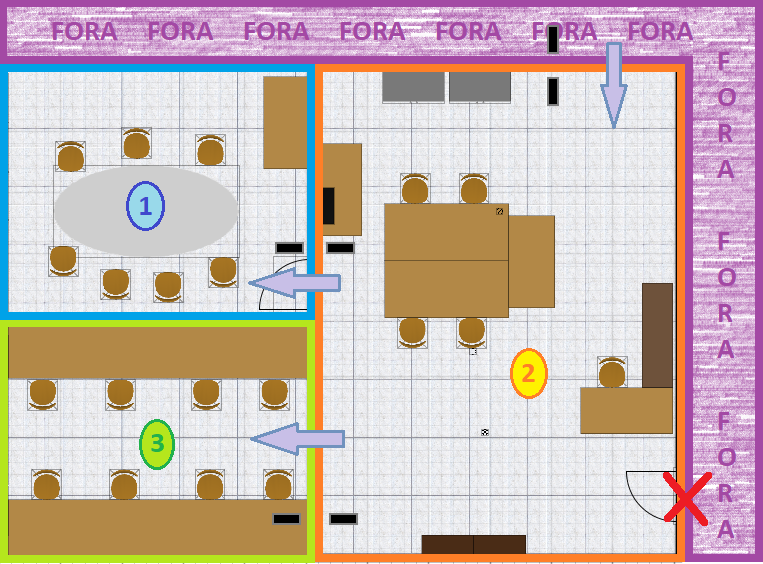
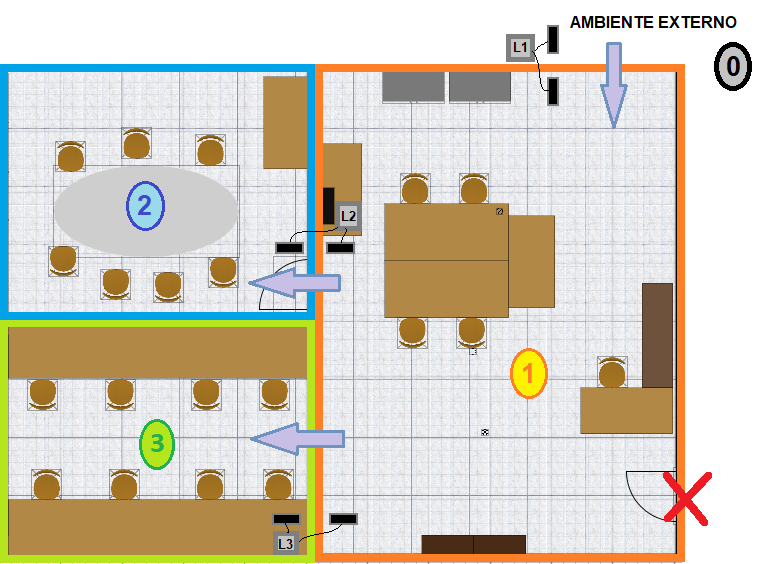
Updates from Overleaf

diff --git a/cap_2Fundamentos.tex b/cap_2Fundamentos.tex
@@ -12,7 +12,7 @@
 
  Uma alternativa possível é o uso de RFID. Esta é uma tecnologia que torna-se mais eficiente, acessível e popular a cada dia. O monitoramento posicional de objetos dentro de uma loja ou armazém tornou-se uma prática possível com RFID passivo, prática que é aplicada com soluções comerciais disponíveis no mercado.
  
-\section{RFID}
+\section{RFID} \label{section: RFID}
 
 A comunicação do tipo Identificação por Radiofrequência – \textit{Radio Frequency Identification} (RFID) – é um tipo de comunicação sem fio por sinais de rádio. O RFID é uma alternativa de identificação útil em aplicações que exigem a leitura de grandes quantidades de dados \cite{rao1999overview}. 
 
@@ -21,7 +21,7 @@ A composição geral do RFID é feita por uma \textit{TAG} ou etiqueta e uma lei
 \begin{figure}[H]
     \centering
     \includegraphics[width=0.6\linewidth]{figs/Fundamentos/Composicao.png}
-    \caption{\textcolor{red}{Composição básica de um sistema RFID. (Fonte: EPC-RFID...)}}
+    \caption{\textcolor{red}{Composição básica de um sistema RFID. (Adaptado de EPC-RFID.Info \cite{EPC-RFID-link})}}
     \label{fig:ComposicaoRFID}
 \end{figure}
 
@@ -40,7 +40,7 @@ De acordo com Chawla e Ha \cite{chawla2007overview}, o sistema RFID consiste em 
 \begin{figure}[H]
     \centering
     \includegraphics[width=0.8\linewidth]{figs/Fundamentos/RFIDdetails.png}
-    \caption{\textcolor{red}{Composição básica de um sistema RFID. (Chawla e Ha, 2007)}}
+    \caption{\textcolor{red}{Composição básica de um sistema RFID. (Adaptado de Chawla e Ha \cite{chawla2007overview})}}
     \label{fig:DetalhesRFID}
 \end{figure}
 
@@ -51,25 +51,164 @@ Vogt \cite{vogt2002multiple}, em seu trabalho, investigou a aplicabilidade da RF
 \begin{figure}[H]
     \centering
     \includegraphics[width=0.6\linewidth]{figs/Fundamentos/RFID.png}
-    \caption{\textcolor{red}{RFID - . (Fonte: Adaptado de Chen et al., 2008) }}
-    \label{fig:AntenaThresholdCoverage}
+    \caption{\textcolor{red}{RFID - . (Adaptado de Chen et al. \cite{chenUsingRFID})}}
+    \label{fig:RFID-Middleware}
 \end{figure}
 
 
-\subsection{RAIN RFID}
+\subsection{RAIN RFID e IoT}
 
 O padrão RAIN (acrônimo para \textit{RAdio frequency IdentificatioN} - Identificação por radiofrequência) é a união de diferentes tipos de hardware e software que possuem o propósito de ligar o meio RFID UHF com a computação em nuvem. É padronizada pela organização global de mesmo nome (RAIN) com o objetivo de popularizar o uso de RFID. \cite{RAIN}
 
+RAIN RFID foi desenvolvido principalmente para aplicações de internet das coisas (IoT - \textit{Internet of things} em inglês). IoT é, segundo Gubbi, et. al. \cite{gubbi2013internet}:
+
+\begin{quote}
+    "Interconexão de dispositivos de detecção e atuação, oferecendo a capacidade de compartilhar informações entre plataformas por meio de uma estrutura unificada, desenvolvendo uma imagem operacional comum para permitir aplicativos inovadores. Isso é conseguido através da detecção onipresente e contínua, análise de dados e representação de informações com a computação em nuvem como a estrutura unificadora."
+\end{quote}
+
 \subsection{\textit{TAGs}}
-TAGs, também conhecidas como transponders, são etiquetas ou chips microprocessadores de identificação. Esses dispositivos recebem sinal de rádio e transmitem, automaticamente, um sinal diferente. Cada TAG possui um número serial de identificação que a difere de outras. \cite{chawla2007overview}. Esses objetos podem armazenar informações como \textit{serial number} (número serial), \textit{model number} (número do modelo), bem como outras características como: data, cor, tamanho e preço. A TAG RFID é classificada de acordo com sua memória, tipo de comunicação e uso de energia, como é possível visualizar na tabela \textcolor{red}{NUMERO DA TABELA}.  \cite{AhmedIntegrationStreamMapping}.
+TAGs, também conhecidas como transponders, são etiquetas ou chips microprocessadores de identificação. Esses dispositivos recebem sinal de rádio e transmitem, automaticamente, um sinal diferente. Cada TAG possui um número serial de identificação que a difere de outras. \cite{chawla2007overview}. Esses objetos podem armazenar informações como \textit{serial number} (número serial), \textit{model number} (número do modelo), bem como outras características como: data, cor, tamanho e preço. A TAG RFID é classificada de acordo com sua memória, tipo de comunicação e uso de energia, como é possível visualizar na tabela \ref{tab:comparativoTags}  \cite{AhmedIntegrationStreamMapping}.
+
+ 
+\begin{table}[H]
+\centering
+\caption{Classificação de TAGs RFID (Adaptado de \cite{AhmedIntegrationStreamMapping})}
+\label{tab:comparativoTags}
+\begin{tabular}{p{4cm}|p{6cm}}
+\hline
+\multicolumn{2}{c}{\cellcolor{lightgray}{Origem da alimentação elétrica}} \\ \hline
+Passiva         &   Alimentada pela leitora através do próprio sinal de radiofrequência. A energia do sinal capturada pela antena da TAG alimenta um         \\ \hline
+Semi-Passiva    &   text    \\ \hline
+Ativa           &   text    \\ \hline
+\multicolumn{2}{c}{\cellcolor{lightgray}{Título}} \\ \hline
+1       &   2       \\ \hline
+data    &   text    \\ \hline
+\multicolumn{2}{c}{\cellcolor{lightgray}{Título}} \\ \hline
+1       &   2       \\ \hline
+data    &   text    \\ \hline
+\end{tabular}
+\end{table}
 
 
-\huge \textcolor{red}{[Tabela]} \normalsize
 
-É possível classificar as TAGs em três tipos, como pode ser visto na tabela \textcolor{red}{NUMERO DA TABELA}: ativas, passivas e semi-passivas \cite{chawla2007overview}.  Existem vários tipos de TAGS ativas (alimentadas por baterias) e passivas, em várias faixas de frequência, presentes no mercado \cite{rao1999overview}. A Figura \textcolor{red}{NUMERO DA FIGURA}, logo abaixo, mostra exemplos de TAGS ativas e passivas.
+É possível classificar as TAGs em três tipos, como pode ser visto na tabela \ref{tab:comparativoTags}: ativas, passivas e semi-passivas \cite{chawla2007overview}.  Existem vários tipos de TAGS ativas (alimentadas por baterias) e passivas, em várias faixas de frequência, presentes no mercado \cite{rao1999overview}. A Figura \textcolor{red}{NUMERO DA FIGURA}, logo abaixo, mostra exemplos de TAGS ativas e passivas.
+
+\textcolor{red}{fotos da tag ativa}
+
+\textcolor{red}{fotos da tag passiva}
 
 Segundo Rao \cite{rao1999overview}, TAGS ativas, como as apresentadas na Figura 1A, tem como vantagens o fornecimento de faixas de leituras maiores (explicar o porquê isso é interessante). Como desvantagem, elas podem ser bem mais caras por exigirem o uso de baterias \cite{rao1999overview}. Uma etiqueta RFID passiva, por sua vez, usará a energia das ondas de rádio do interrogador para retransmitir suas informações armazenadas de volta ao interrogador \cite{EPC-RFID-link}. 
+
+
+
 
 \subsection{Antenas}
 
 A antena é capaz de perceber o sinal de uma TAG dentro de um determinado raio de cobertura. Cada antena é única nesse sentido...
+
+
+\subsection{Efeitos causados por materiais e frequência de operação}
+
+É amplamente conhecido na indústria do RFID e de outras tecnologias que trabalham com RF (radiofrequência - \textit{radiofrequency} em inglês) que os materiais presentes no ambiente onde se propagam os sinais transmitidos. Por exemplo, é praticamente um consenso o fato de que os meios aquosos absorvem os sinais, e os metais os refletem.
+
+Estudos com materiais mostram que podem existir nove tipos de perdas no sinal, como mostra Sanghera em seu livro\cite{book:SangheraRFID+}:
+\begin{itemize}
+    \item \textbf{Absorção:} Energia do sinal absorvida pelo meio;
+    \item \textbf{Atenuação:} Diminuição da amplitude do sinal devido à absorção e dispersão;
+    \item \textbf{Efeitos Dielétricos:} Capacidade do meio de reter carga. Gera atraso do sinal;
+    \item \textbf{Difração:} "Dobra" de um sinal de radiofrequência ao atingir uma quina ou pequeno orifício;
+    \item \textbf{Perda de espaço livre:} Diminuição da densidade do sinal devido à característica de propagação do sinal para todos os lados;
+    \item \textbf{Interferência:} Ocorre no encontro de duas ondas de radiofrequência, pode ser construtiva ou destrutiva;
+    \item \textbf{Reflexão:} Retorno do sinal em um ângulo isóceles ao de incidência em uma superfície plana. Geralmente ocorre no chão, teto e paredes;
+    \item \textbf{Refração:} mudança de direção de trajetória do sinal, entretanto permeando o meio causador da refração;
+    \item \textbf{Espalhamento:} Absorção e re-emissão do sinal, em direções aleatórias.
+\end{itemize}
+    
+Sanghera mostra ainda uma tabela contendo a influência de cada material no sinal de radiofrequência \cite{book:SangheraRFID+}. Esta tabela é adaptada e apresentada a seguir (Tabela \ref{tab:InterfMateriais}).
+
+\begin{table}[H]
+\centering
+\caption{Efeito dos materiais nos sinais de RFID (Adaptado de \cite{book:SangheraRFID+})}
+\label{tab:InterfMateriais}
+\begin{tabular}{p{5cm} p{7cm}}
+\hline
+\cellcolor{lightgray}{Material} & \cellcolor{lightgray}{Efeito no sinal RF}   \\ \hline
+Papelão         &   Absorção        \\
+Líquido condutivo    &   Absorção        \\
+Vidro           &  Atenuação        \\
+Conjunto de latas & Reflexão em múltiplas direções \\
+Corpo humano ou animal & Absorção, dessintonização e reflexão \\ 
+Metal & Reflexão \\
+Plástico & Dessintonização devido ao efeito dielétrico \\ \hline
+\end{tabular}
+\end{table}
+
+ Um estudo conduzido por Fletcher \cite{fletcher2005study} questiona, contudo, os efeitos dos sinais RF nos meios aquosos, e portanto, os efeitos no corpo humano e de animais por consequência. Ele afirma que, ao contrário do que se acredita, os líquidos interferem nas leituras dos sinais de RFID majoritariamente devido aos efeitos de reflexão e refração, enquanto o consenso é de que meios aquosos absorviam os sinais, principalmente.
+ 
+ De uma forma ou de outra, as leituras RFID obtidas são de baixa qualidade quando os transpônderes ou as antenas estão próximas de meios aquosos ou pessoas e animais. Esse é o principal motivo de o monitoramento de localização por RFID, ou outras tecnologias RF, não possuir muita aderência para o propósito de monitorar pessoas enquanto a tecnologia avança a passos largos no monitoramento de produtos e aplicações de \textit{IoT}, visto que estes últimos são menos suscetíveis à perda de sinal.
+ 
+ O livro de Thornton e Sanghera \cite{thornton2011cheat} mostra a influência causada pela escolha da frequência de funcionamento do sistema. Os protocolos RFID preveem o funcionamento da tecnologia em quatro faixas de frequência:
+ 
+ \begin{itemize}
+     \item Baixa frequência (LF - \textit{Low Frequency})
+     \begin{itemize}
+         \item opera a 125 kHz ou 134 kHz para dispositivos RFID
+         \item Baixa distorção devido a água
+         \item Curto alcance (até 10 cm)
+         \item Utilizado para identificação de pessoas e animais à curta distância
+     \end{itemize}
+     \item Alta frequência (HF - \textit{High Frequency})
+     \begin{itemize}
+         \item opera a 13.56 MHz para dispositivos RFID
+         \item alcance de até 3m
+         \item sinal RF com comprimento de onda pequeno / baixa capacidade de penetração em materiais
+         \item mais opções de velocidade de leitura em relação à baixa frequência
+         \item utilizado em controle de acesso e rastreio de itens como bagagens
+     \end{itemize}
+     \item UHF (em inglês \textit{Ultra High Frequency} - Frequência Ultra Alta em tradução livre para o português)
+     \begin{itemize}
+         \item Diferentes frequências em diferentes países
+         \begin{itemize}
+             \item Faixa de 860-960MHz
+             \item 902-928MHz no Brasil (geralmente 915MHz)
+         \end{itemize}
+         \item alta distorção devido a água
+         \item a frequência de operação depende do país onde o equipamento é homologado
+         \item maior alcance que LF e HF
+         \item usado para gerenciamento de estoque e armazéns
+     \end{itemize}
+     \item Microondas
+     \begin{itemize}
+         \item Faixa de 2,44-5,80GHz para dispositivos RFID
+         \item Alta velocidade de leitura
+         \item Longo alcance
+         \item baixo desempenho próximo a água
+         \item utilizado para identificação de veículos e \textit{supply chain} (em português, "cadeia de suprimentos" ou "cadeia de logística")
+     \end{itemize}
+ \end{itemize}
+
+
+A imagem \ref{fig:impactoFrec} de Oliveira e Rocha \cite{TG2013OliveiraERocha}, traduzida da original no livro de Thornton e Sanghera \cite{thornton2011cheat}, simplifica os conceitos do impacto da frequência de operação no sinal RFID.
+
+\begin{figure}[H]
+    \centering
+    \includegraphics[width=0.8\linewidth]{figs/Fundamentos/frequencia.png}
+    \caption{Impacto da frequência de operação nas leituras RFID. (Fonte: Oliveira e Rocha \cite{TG2013OliveiraERocha}, adaptado de Thornton e Sanghera \cite{thornton2011cheat})}
+    \label{fig:impactoFrec}
+\end{figure}
+    
+    
+\section{Localização \textit{indoor}}
+
+O rastreio e localização de pessoas em ambientes fechados é algo fortemente desejado desde o surgimento das tecnologias de localização por sinais de radiofrequência. É imaginado um futuro onde equipes de segurança sabem exatamente onde resgatar uma pessoa com dificuldades, dentro de um edifício; sistemas de ar-condicionado eficientes dimensionam automaticamente as suas potências baseados na ocupação do local aumentando a eficiência energética; mapas de ambientes fechados públicos que indicam o caminho até o destino final interno.
+
+A localização de pessoas e objetos já está muito avançada para ambientes externos, com exemplos de muito sucesso como o sistema de posicionamento global - GPS (\textit{Global Positioning System} em inglês) e seus similares (Galileo, Glonass, Compass), e também do Cell-ID - tecnologia de localização de dispositivos GSM/WCDMA/CDMA por triangulação de torres de celular.
+
+Contudo, a localização em ambientes fechados ainda é muito restrita, principalmente devido às restrições de comunicação por sinais RF em ambientes passíveis de obstrução por objetos e fontes de reflexão e demais tipos de interferência. Problemas como a atenuação e dispersão do sinal, sinais duplos ou múltiplos, e a grande quantidade de dispositivos comunicando-se em um pequeno espaço em algumas aplicações (o que gera conflito de diversas tentativas de estabelecimento de comunicação ao mesmo tempo) dificultam o desenvolvimento de uma tecnologia definitiva para esta aplicação.
+
+Para desviar dos empecilho, soluções específicas para diversas aplicações são criadas. A indústria larga na frente, com sistemas de rastreio e posicionamento de produtos e equipamentos, como em armazéns e linhas de produção. O comércio também já possui soluções para prevenção de perdas e roubos, e começa a aplicar os conceitos de rastreamento de produtos de armazéns para identificar roupas e sapatos em estantes, por exemplo. A área de soluções para cidades pesquisa tecnologias IoT.
+
+A área de localização de pessoas possui 
+
+\subsection{Estratégias}
+

diff --git a/cap_3Metodos.tex b/cap_3Metodos.tex
@@ -101,9 +101,7 @@ A Speedway R420 da fabricante Impinj é uma pequena leitora estacionária de \te
  
  As leitoras e as antenas utilizadas neste trabalho possuem um grande campo de cobertura relativo a outros modelos de equipamentos RFID passivo. Entretanto, a cobertura de sinal anunciada pelo fabricante é válida para ambientes abertos, espaços e sem a presença de objetos que possam interferir com o sinal, como mesas, cadeiras, equipamentos e pessoas.
  
- A interferência de sinais de radiofrequência por metais e líquidos  é um problema conhecido na indústria. Ao contrário do que se acreditava, ambos os materiais interferem nas leituras dos sinais devido aos efeitos de reflexão, majoritariamente. Anteriormente acreditava-se que os meios aquosos absorviam os sinais, e os metais os refletiam. Essa ideia é refutada por Fletcher \cite{fletcher2005study}, em seu estudo da interferência de diferentes materiais na tecnologia RFID.
- 
- Levando em consideração este problema, um cenário fictício de um ambiente de trabalho é considerado, baseado em escritórios e laboratórios reais. Supõe-se que todos os trabalhadores e visitantes, carreguem consigo crachás de identificação, nos quais estão embutidos transpônderes RFID já existentes, utilizados no sistema de controle de acesso do escritório ou laboratório.
+ A interferência de sinais de radiofrequência por metais e líquidos  é um problema conhecido na indústria. Levando em consideração este problema, um cenário fictício de um ambiente de trabalho é considerado, baseado em escritórios e laboratórios reais. Supõe-se que todos os trabalhadores e visitantes, carreguem consigo crachás de identificação, nos quais estão embutidos transpônderes RFID já existentes, utilizados no sistema de controle de acesso do escritório ou laboratório.
  
  As pessoas que transitam neste ambiente utilizam seus crachás em cordões dependurados no pescoço. Cada crachá permanece próximo ao corpo do seu usuário, porém não preso a ele. Os crachás ficam na altura do tórax.
  
@@ -112,7 +110,7 @@ A Speedway R420 da fabricante Impinj é uma pequena leitora estacionária de \te
 
  O Laboratório de Automação e Robótica (LARA) foi o local para simulação do ambiente de teste do sistema criado. Especificamente, a metade sul do laboratório, onde se encontram os ambientes de estudo geral e a sala de reuniões.
  
- Esta parte do laboratório foi subdividida em três ambientes: a Sala de Reuniões (1), Ala Principal (2) e o Corredor de Mesas (3), como pode ser observado na planta baixa da figura \ref{fig:LARA_planta}.
+ Esta parte do laboratório foi subdividida em quatro ambientes: o ambiente externo (0), a Sala Principal (1), Sala de Reuniões (2) e o Corredor de Baias (3), como pode ser observado na planta baixa da figura \ref{fig:LARA_planta}.
 
   \begin{figure}[H]
     \centering
@@ -137,12 +135,17 @@ O ambiente do laboratório pode ser melhor visualizado nas figuras \ref{fig:LARA
     \label{fig:LARA2}
 \end{figure}
 
+As três leitoras foram designadas para tratar os dados das transições. A leitora 1 (L1) trata os dados da transição entre o Ambiente Externo (0) e a Sala Principal (1); a Leitora 2 (L2) é responsável por capturar os dados da transição entre a Sala Principal (1) e a Sala de Reuniões (2); a Leitora 3 registra os cartões que passam pela transição entre a Sala Principal (1) e o Corredor de Baias (3). Cada leitora é representada por um retângulo cinza na figura \ref{fig:LARA_planta} e possui duas antenas para registrar as \textit{tags} que passam na região.
 
+As antenas foram dispostas em locais estratégicos para obter-se as leituras mais precisas, nos locais de transição de interesse. Estes locais são nas portas ou passagens onde estão as fronteiras dos ambientes definidos. As antenas podem ser vistas como retângulos pretos de borda cinza na figura \ref{fig:LARA_planta} e pelo desenho da leitora real nas figuras \ref{fig:LARA1} e \ref{fig:LARA1}.
 
+As leitoras da transição entre os ambientes Sala Principal (1) e Sala de Reuniões (2) e da transição entre os ambientes Sala Principal (1), Corredor de Baias (3) foram instaladas em posições opostas da sala para minimizar a ocorrência de leitura das \textit{tags} pelas duas leitoras ao mesmo tempo.
 
-
- 
  \subsection{Elaboração do Software}
+ 
+ A tecnologia RAIN RFID, geralmente utilizada para aplicações de \textit{IoT} (Internet das coisas - \textit{Internet of Things} em inglês), exige a implementação de um \textit{Middleware} para conectar os dados crus das \textit{tags} registrados pelas leitoras RFID às aplicações de alto nível e de computação em nuvem, como pode ser observado na figura \ref{fig:RFID-Middleware} do capítulo anterior, sessão \ref{section: RFID}.
+ 
+ A estratégia utilizada foi baseada na estratégia
  
 
  

diff --git a/simbolos.tex b/simbolos.tex
@@ -54,9 +54,15 @@ $-$  & Valor médio \tabularnewline
 
 \begin{tabular}{p{0.1\textwidth}p{0.8\textwidth}}
 EPC  & Código Eletrônico do Produto - \textit{Electronic Product Code}\tabularnewline
-LARA & Laboratório de Automação e Robótica \tabularnewline
-UnB & Universidade de Brasília \tabularnewline
-RFID & Identificação por Radiofrequência - \textit{Radio Frequency Identification}\tabularnewline
-RAIN & Identificação por radiofrequência - \textit{RAdio frequency IdentificatioN} \tabularnewline
+GPS & Sistema de Posicionamento Global - \textit{Global Positioning System} \tabularnewline
+HF & Alta Frequência - \textit{High Frequency} \tabularnewline
 HVAC & Aquecimento, Ventilação e Ar-condicionado - \textit{Heating, Ventilation and Air Conditioning}\tabularnewline
+IoT & Internet das coisas - \textit{Internet of Things} \tabularnewline
+LARA & Laboratório de Automação e Robótica \tabularnewline
+LF & Baixa Frequência - \textit{Low Frequency} \tabularnewline
+RAIN & Identificação por radiofrequência - \textit{RAdio frequency IdentificatioN} \tabularnewline
+RF & Radiofrequência - \textit{radiofrequency} \tabularnewline
+RFID & Identificação por Radiofrequência - \textit{Radio Frequency Identification}\tabularnewline
+UHF & Frequência Ultra Alta - \textit{Ultra High frequency} \tabularnewline
+UnB & Universidade de Brasília \tabularnewline
 \end{tabular}

diff --git a/relatorio.tex b/relatorio.tex
@@ -53,6 +53,7 @@
 % Pacotes para adição de figuras do inkscape
 \usepackage{graphicx}
 \usepackage{import}
+\usepackage[table]{xcolor}
 
 % Escolher um dos seguintes formatos:
 \usepackage{ft2unb} % segue padrão de fontes do Latex

diff --git a/cap_4Resultados.tex b/cap_4Resultados.tex
@@ -8,6 +8,6 @@ texto
 
 \section{Resultados}
 
-texto \cite{vogt2002multiple}
+texto
 
 
